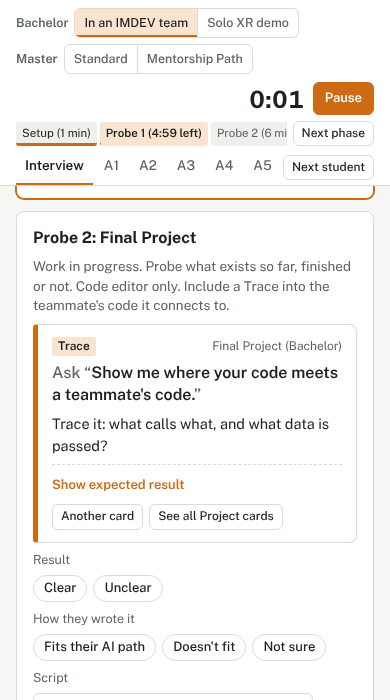
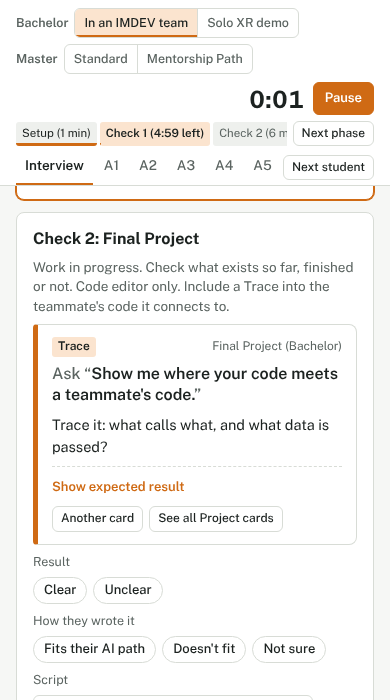
Fix state after rename
Claude-Session: https://claude.ai/code/session_012pZ8E2KigwqxqxQJHujcYw

diff --git a/index.html b/index.html
@@ -225,7 +225,7 @@ function reset(keepMode){
   const mode = keepMode && S ? S.mode : (store.get("crg-mode","bt"));
   S = { mode, tab:"flow", aiPath:null, sugg:null,
         timer:{running:false, start:0, acc:0}, phase:"setup", phaseAt:0,
-        checks:[blankProbe(), blankProbe(), blankProbe()],
+        probes:[blankProbe(), blankProbe(), blankProbe()],
         advice:null, armedNext:false, modeChosen:false };
 }
 reset(false);
